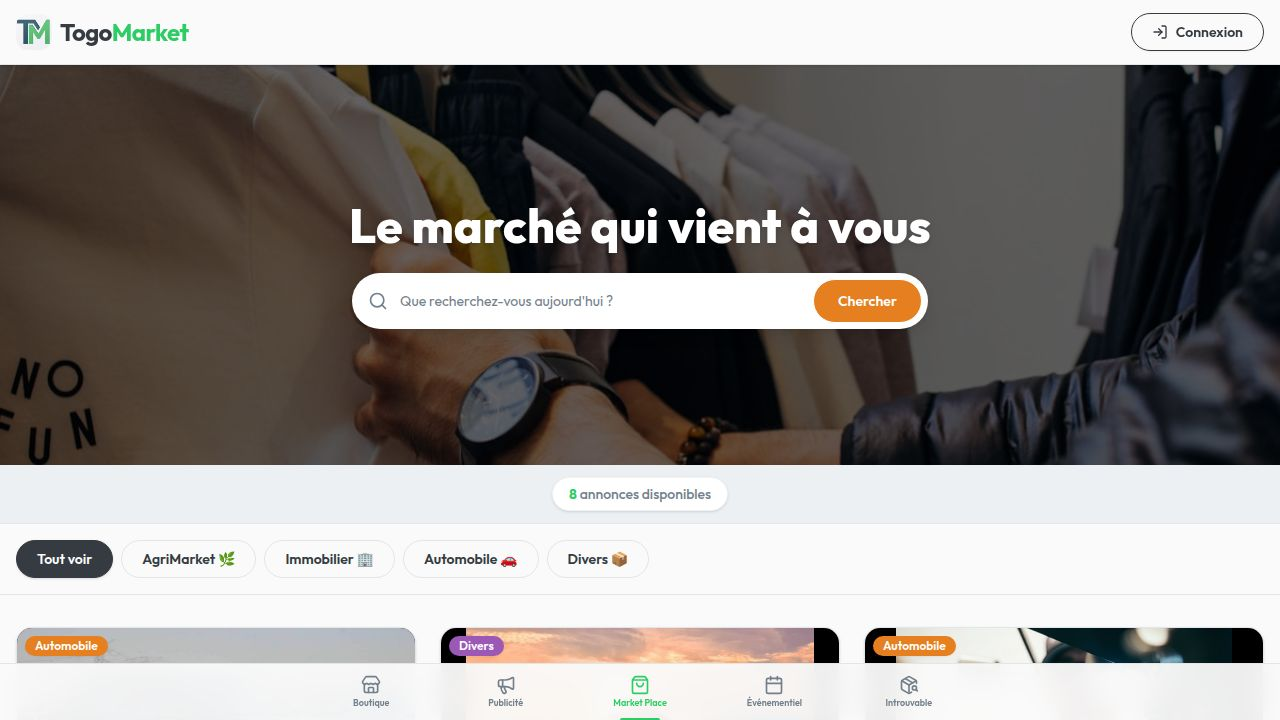
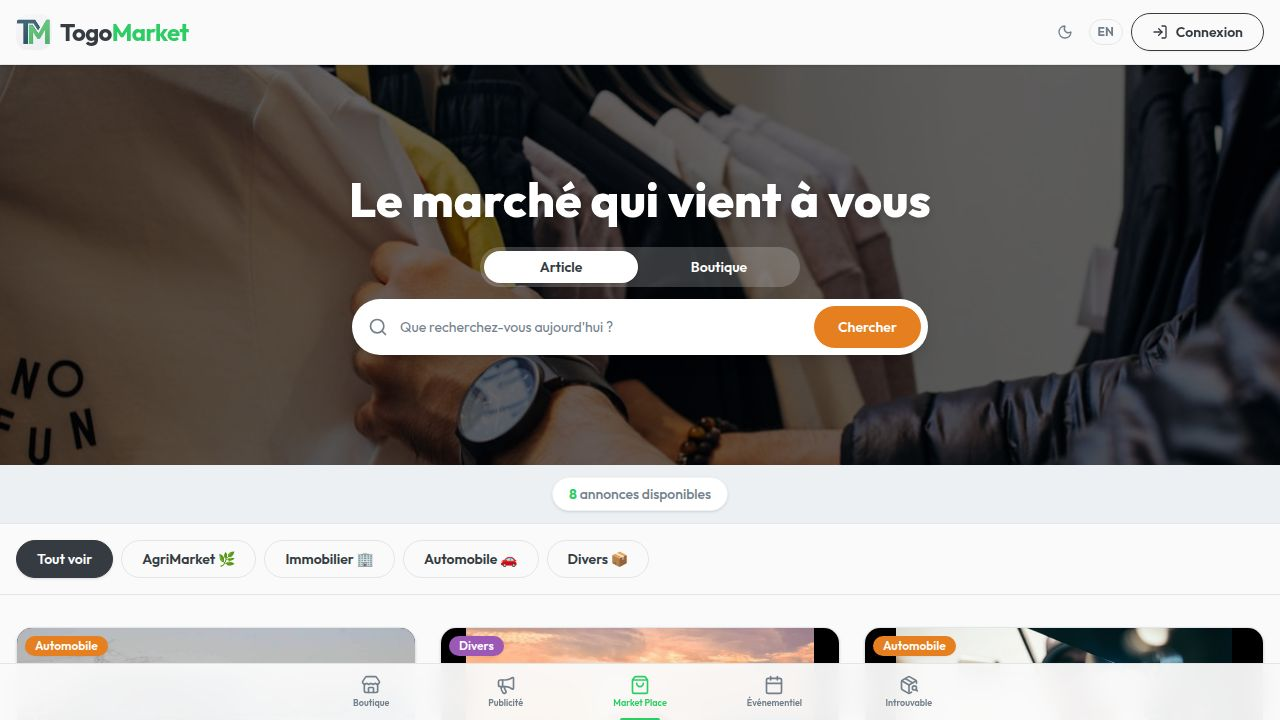
Add language and theme toggles to the website interface
Integrates site settings for language and theme switching, updates various UI elements with internationalized text, and modifies the navbar and home page components to support these new features.

Replit-Commit-Author: Agent
Replit-Commit-Session-Id: 1b00ca2b-ae7e-47dd-8473-5215387b0e44
Replit-Commit-Checkpoint-Type: full_checkpoint
Replit-Commit-Event-Id: 21c5c5e3-fd89-4bfa-bc69-a8dcd5c7f15c
Replit-Commit-Screenshot-Url: https://storage.googleapis.com/screenshot-production-us-central1/cb10dbdf-f237-493e-8bc0-15c807077f26/1b00ca2b-ae7e-47dd-8473-5215387b0e44/WuqL6LS
Replit-Helium-Checkpoint-Created: true

Changed region(s): [[0.25, 0.2444, 0.75, 0.5194], [0.8438, 0.0306, 0.875, 0.0611]]

diff --git a/artifacts/togomarket/src/lib/i18n.ts b/artifacts/togomarket/src/lib/i18n.ts
@@ -1,0 +1,88 @@
+import type { Lang } from "./site-settings";
+
+const translations = {
+  fr: {
+    // Navbar
+    login: "Connexion",
+    publish: "Publier",
+    // Hero
+    tagline: "Le marché qui vient à vous",
+    searchArticlePlaceholder: "Que recherchez-vous aujourd'hui ?",
+    searchShopPlaceholder: "Numéro de la boutique",
+    search: "Chercher",
+    see: "Voir",
+    article: "Article",
+    shop: "Boutique",
+    // Category bar
+    all: "Tout voir",
+    // Stats
+    listingsAvailable: (n: number) => `${n} annonce${n > 1 ? "s" : ""} disponible${n > 1 ? "s" : ""}`,
+    // Bottom nav
+    navBoutique: "Boutique",
+    navMarket: "Market Place",
+    navAds: "Publicité",
+    navEvents: "Événementiel",
+    navLost: "Introuvable",
+    // Load more
+    loadMore: "Voir plus",
+    loading: "Chargement...",
+    noListings: "Aucune annonce trouvée.",
+    noShop: "Boutique introuvable.",
+    // Listing card
+    contact: "Voir le contact",
+    report: "Signaler",
+    // Boutique view
+    myListings: "Mes annonces",
+    published: "Publiées",
+    pending: "En attente",
+    shopNumber: (n: number) => `N°${n}`,
+    // Theme / Lang
+    darkMode: "Mode sombre",
+    lightMode: "Mode clair",
+  },
+  en: {
+    // Navbar
+    login: "Login",
+    publish: "Sell",
+    // Hero
+    tagline: "The market that comes to you",
+    searchArticlePlaceholder: "What are you looking for today?",
+    searchShopPlaceholder: "Shop number",
+    search: "Search",
+    see: "View",
+    article: "Item",
+    shop: "Shop",
+    // Category bar
+    all: "View all",
+    // Stats
+    listingsAvailable: (n: number) => `${n} listing${n > 1 ? "s" : ""} available`,
+    // Bottom nav
+    navBoutique: "My Shop",
+    navMarket: "Marketplace",
+    navAds: "Ads",
+    navEvents: "Events",
+    navLost: "Can't find it",
+    // Load more
+    loadMore: "Load more",
+    loading: "Loading...",
+    noListings: "No listings found.",
+    noShop: "Shop not found.",
+    // Listing card
+    contact: "View contact",
+    report: "Report",
+    // Boutique view
+    myListings: "My listings",
+    published: "Published",
+    pending: "Pending",
+    shopNumber: (n: number) => `#${n}`,
+    // Theme / Lang
+    darkMode: "Dark mode",
+    lightMode: "Light mode",
+  },
+} as const;
+
+export function useT(lang: Lang) {
+  return translations[lang];
+}
+
+export type T = ReturnType<typeof useT>;

diff --git a/artifacts/togomarket/src/pages/home.tsx b/artifacts/togomarket/src/pages/home.tsx
@@ -8,7 +8,9 @@ import {
   type VendorProfile,
   type Listing,
 } from "@workspace/api-client-react";
-import { Search, SearchIcon, LogIn, UserCircle2, Settings } from "lucide-react";
+import { Search, SearchIcon, LogIn, UserCircle2, Settings, Moon, Sun } from "lucide-react";
+import { useSiteSettings } from "@/lib/site-settings";
+import { useT } from "@/lib/i18n";
 import { Button } from "@/components/ui/button";
 import { Input } from "@/components/ui/input";
 import { ListingCard } from "@/components/listing-card";
@@ -51,6 +53,8 @@ function clearSession() {
 
 export default function Home() {
   const { toast } = useToast();
+  const { lang, setLang, theme, toggleTheme } = useSiteSettings();
+  const t = useT(lang);
   const [search, setSearch] = useState("");
   const [searchInput, setSearchInput] = useState("");
   const [sector, setSector] = useState<string | undefined>(undefined);
@@ -167,11 +171,11 @@ export default function Home() {
   };
 
   const categories = [
-    { label: "Tout voir", value: undefined },
-    { label: "AgriMarket 🌿", value: "AgriMarket" },
-    { label: "Immobilier 🏢", value: "Immobilier" },
-    { label: "Automobile 🚗", value: "Automobile" },
-    { label: "Divers 📦", value: "Divers" },
+    { label: t.all, value: undefined },
+    { label: `AgriMarket 🌿`, value: "AgriMarket" },
+    { label: `Immobilier 🏢`, value: "Immobilier" },
+    { label: `Automobile 🚗`, value: "Automobile" },
+    { label: `Divers 📦`, value: "Divers" },
   ];
 
   return (
@@ -214,13 +218,28 @@ export default function Home() {
 
           {/* Auth / Publish buttons */}
           <div className="flex items-center gap-2">
+            {/* Theme toggle */}
+            <button
+              onClick={toggleTheme}
+              title={theme === "dark" ? t.lightMode : t.darkMode}
+              className="w-8 h-8 flex items-center justify-center rounded-full text-muted-foreground hover:text-foreground hover:bg-muted transition-colors"
+            >
+              {theme === "dark" ? <Sun className="w-4 h-4" /> : <Moon className="w-4 h-4" />}
+            </button>
+            {/* Lang toggle */}
+            <button
+              onClick={() => setLang(lang === "fr" ? "en" : "fr")}
+              className="text-xs font-bold px-2 py-1 rounded-full border border-border hover:bg-muted transition-colors text-muted-foreground hover:text-foreground"
+            >
+              {lang === "fr" ? "EN" : "FR"}
+            </button>
             {vendor ? (
               <>
                 <Button
                   onClick={() => setIsPublishModalOpen(true)}
                   className="bg-primary hover:bg-primary/90 rounded-full font-semibold px-5"
                 >
-                  Publier
+                  {t.publish}
                 </Button>
 
                 {/* Profile avatar → opens ProfileSettingsModal */}
@@ -252,7 +271,7 @@ export default function Home() {
                 className="rounded-full font-semibold px-5 gap-2"
               >
                 <LogIn className="w-4 h-4" />
-                Connexion
+                {t.login}
               </Button>
             )}
           </div>
@@ -275,7 +294,7 @@ export default function Home() {
 
             <div className="relative z-10 w-full max-w-2xl px-4 text-center">
               <h1 className="text-3xl sm:text-5xl font-extrabold text-white mb-6 drop-shadow-md">
-                Le marché qui vient à vous
+                {t.tagline}
               </h1>
 
               {/* Mode tabs */}
@@ -289,7 +308,7 @@ export default function Home() {
                       : "text-white hover:bg-white/20"
                   }`}
                 >
-                  Article
+                  {t.article}
                 </button>
                 <button
                   type="button"
@@ -300,7 +319,7 @@ export default function Home() {
                       : "text-white hover:bg-white/20"
                   }`}
                 >
-                  Boutique
+                  {t.shop}
                 </button>
               </div>
 
@@ -312,7 +331,7 @@ export default function Home() {
                   <SearchIcon className="absolute left-4 w-5 h-5 text-muted-foreground" />
                   <Input
                     type="text"
-                    placeholder="Que recherchez-vous aujourd'hui ?"
+                    placeholder={t.searchArticlePlaceholder}
                     value={searchInput}
                     onChange={(e) => setSearchInput(e.target.value)}
                     className="w-full pl-12 pr-24 h-14 rounded-full text-base bg-white border-0 shadow-lg focus-visible:ring-primary"
@@ -321,7 +340,7 @@ export default function Home() {
                     type="submit"
                     className="absolute right-1.5 h-11 rounded-full bg-accent hover:bg-accent/90 text-accent-foreground px-6 font-semibold"
                   >
-                    Chercher
+                    {t.search}
                   </Button>
                 </form>
               ) : (
@@ -333,7 +352,7 @@ export default function Home() {
                   <Input
                     type="number"
                     min={1}
-                    placeholder="Numéro de la boutique"
+                    placeholder={t.searchShopPlaceholder}
                     value={shopNumberInput}
                     onChange={(e) => setShopNumberInput(e.target.value)}
                     className="w-full pl-10 pr-24 h-14 rounded-full text-base bg-white border-0 shadow-lg focus-visible:ring-primary"
@@ -342,7 +361,7 @@ export default function Home() {
                     type="submit"
                     className="absolute right-1.5 h-11 rounded-full bg-accent hover:bg-accent/90 text-accent-foreground px-6 font-semibold"
                   >
-                    Voir
+                    {t.see}
                   </Button>
                 </form>
               )}
@@ -353,8 +372,8 @@ export default function Home() {
           {stats && (
             <div className="bg-muted py-3 border-b">
               <div className="container mx-auto px-4 flex justify-center text-sm font-medium text-muted-foreground">
-                <span className="bg-white px-4 py-1.5 rounded-full shadow-sm border border-border/50">
-                  <span className="text-primary font-bold">{stats.total}</span> annonces disponibles
+                <span className="bg-white px-4 py-1.5 rounded-full shadow-sm border border-border/50 font-medium">
+                  <span className="text-primary font-bold">{stats.total}</span> {lang === "fr" ? `annonce${stats.total > 1 ? "s" : ""} disponible${stats.total > 1 ? "s" : ""}` : `listing${stats.total > 1 ? "s" : ""} available`}
                 </span>
               </div>
             </div>
@@ -425,7 +444,7 @@ export default function Home() {
                       disabled={isFetching}
                       className="rounded-full px-8 font-semibold"
                     >
-                      {isFetching ? "Chargement…" : "Charger plus d'annonces"}
+                      {isFetching ? t.loading : t.loadMore}
                     </Button>
                   </div>
                 )}
@@ -435,10 +454,11 @@ export default function Home() {
                 <div className="inline-flex items-center justify-center w-16 h-16 rounded-full bg-muted mb-4">
                   <Search className="w-8 h-8 text-muted-foreground" />
                 </div>
-                <h3 className="text-xl font-semibold mb-2">Aucun article trouvé</h3>
+                <h3 className="text-xl font-semibold mb-2">{shopNumber ? t.noShop : t.noListings}</h3>
                 <p className="text-muted-foreground max-w-sm mx-auto">
-                  Nous n'avons trouvé aucun article correspondant à votre recherche. Essayez d'autres
-                  mots-clés ou commandez-le !
+                  {shopNumber
+                    ? (lang === "fr" ? `Aucune boutique avec le numéro N°${shopNumber}.` : `No shop found with number #${shopNumber}.`)
+                    : (lang === "fr" ? "Essayez d'autres mots-clés ou commandez-le !" : "Try different keywords or place a custom order!")}
                 </p>
               </div>
             )}

diff --git a/artifacts/togomarket/src/lib/site-settings.tsx b/artifacts/togomarket/src/lib/site-settings.tsx
@@ -1,0 +1,59 @@
+import { createContext, useContext, useEffect, useState, type ReactNode } from "react";
+
+export type Lang = "fr" | "en";
+export type Theme = "light" | "dark";
+
+interface SiteSettings {
+  lang: Lang;
+  theme: Theme;
+  setLang: (l: Lang) => void;
+  toggleTheme: () => void;
+}
+
+const SiteSettingsContext = createContext<SiteSettings>({
+  lang: "fr",
+  theme: "light",
+  setLang: () => {},
+  toggleTheme: () => {},
+});
+
+export function SiteSettingsProvider({ children }: { children: ReactNode }) {
+  const [lang, setLangState] = useState<Lang>(() => {
+    return (localStorage.getItem("tg_lang") as Lang) ?? "fr";
+  });
+  const [theme, setThemeState] = useState<Theme>(() => {
+    return (localStorage.getItem("tg_theme") as Theme) ?? "light";
+  });
+
+  useEffect(() => {
+    const root = document.documentElement;
+    if (theme === "dark") {
+      root.classList.add("dark");
+    } else {
+      root.classList.remove("dark");
+    }
+  }, [theme]);
+
+  const setLang = (l: Lang) => {
+    setLangState(l);
+    localStorage.setItem("tg_lang", l);
+  };
+
+  const toggleTheme = () => {
+    setThemeState((prev) => {
+      const next = prev === "light" ? "dark" : "light";
+      localStorage.setItem("tg_theme", next);
+      return next;
+    });
+  };
+
+  return (
+    <SiteSettingsContext.Provider value={{ lang, theme, setLang, toggleTheme }}>
+      {children}
+    </SiteSettingsContext.Provider>
+  );
+}
+
+export function useSiteSettings() {
+  return useContext(SiteSettingsContext);
+}

diff --git a/artifacts/togomarket/src/components/bottom-nav.tsx b/artifacts/togomarket/src/components/bottom-nav.tsx
@@ -1,4 +1,6 @@
 import { Store, Megaphone, ShoppingBag, Calendar, PackageSearch } from "lucide-react";
+import { useSiteSettings } from "@/lib/site-settings";
+import { useT } from "@/lib/i18n";
 
 export type NavTab = "boutique" | "publicite" | "marketplace" | "evenementiel" | "introuvable";
 
@@ -7,15 +9,18 @@ interface BottomNavProps {
   onTabChange: (tab: NavTab) => void;
 }
 
-const tabs: { id: NavTab; label: string; Icon: React.ComponentType<{ className?: string }> }[] = [
-  { id: "boutique", label: "Boutique", Icon: Store },
-  { id: "publicite", label: "Publicité", Icon: Megaphone },
-  { id: "marketplace", label: "Market Place", Icon: ShoppingBag },
-  { id: "evenementiel", label: "Événementiel", Icon: Calendar },
-  { id: "introuvable", label: "Introuvable", Icon: PackageSearch },
-];
-
 export function BottomNav({ activeTab, onTabChange }: BottomNavProps) {
+  const { lang } = useSiteSettings();
+  const t = useT(lang);
+
+  const tabs: { id: NavTab; label: string; Icon: React.ComponentType<{ className?: string }> }[] = [
+    { id: "boutique", label: t.navBoutique, Icon: Store },
+    { id: "publicite", label: t.navAds, Icon: Megaphone },
+    { id: "marketplace", label: t.navMarket, Icon: ShoppingBag },
+    { id: "evenementiel", label: t.navEvents, Icon: Calendar },
+    { id: "introuvable", label: t.navLost, Icon: PackageSearch },
+  ];
+
   return (
     <div className="fixed bottom-0 left-0 w-full bg-background/95 backdrop-blur-md border-t z-50 safe-area-bottom">
       <div className="flex items-stretch justify-around max-w-2xl mx-auto">

diff --git a/artifacts/togomarket/src/App.tsx b/artifacts/togomarket/src/App.tsx
@@ -3,6 +3,7 @@ import { Switch, Route, Router as WouterRouter } from "wouter";
 import { QueryClient, QueryClientProvider } from "@tanstack/react-query";
 import { Toaster } from "@/components/ui/toaster";
 import { TooltipProvider } from "@/components/ui/tooltip";
+import { SiteSettingsProvider } from "@/lib/site-settings";
 import NotFound from "@/pages/not-found";
 import Home from "@/pages/home";
 
@@ -58,14 +59,16 @@ function Router() {
 function App() {
   return (
     <ErrorBoundary>
-      <QueryClientProvider client={queryClient}>
-        <TooltipProvider>
-          <WouterRouter base={import.meta.env.BASE_URL.replace(/\/$/, "")}>
-            <Router />
-          </WouterRouter>
-          <Toaster />
-        </TooltipProvider>
-      </QueryClientProvider>
+      <SiteSettingsProvider>
+        <QueryClientProvider client={queryClient}>
+          <TooltipProvider>
+            <WouterRouter base={import.meta.env.BASE_URL.replace(/\/$/, "")}>
+              <Router />
+            </WouterRouter>
+            <Toaster />
+          </TooltipProvider>
+        </QueryClientProvider>
+      </SiteSettingsProvider>
     </ErrorBoundary>
   );
 }